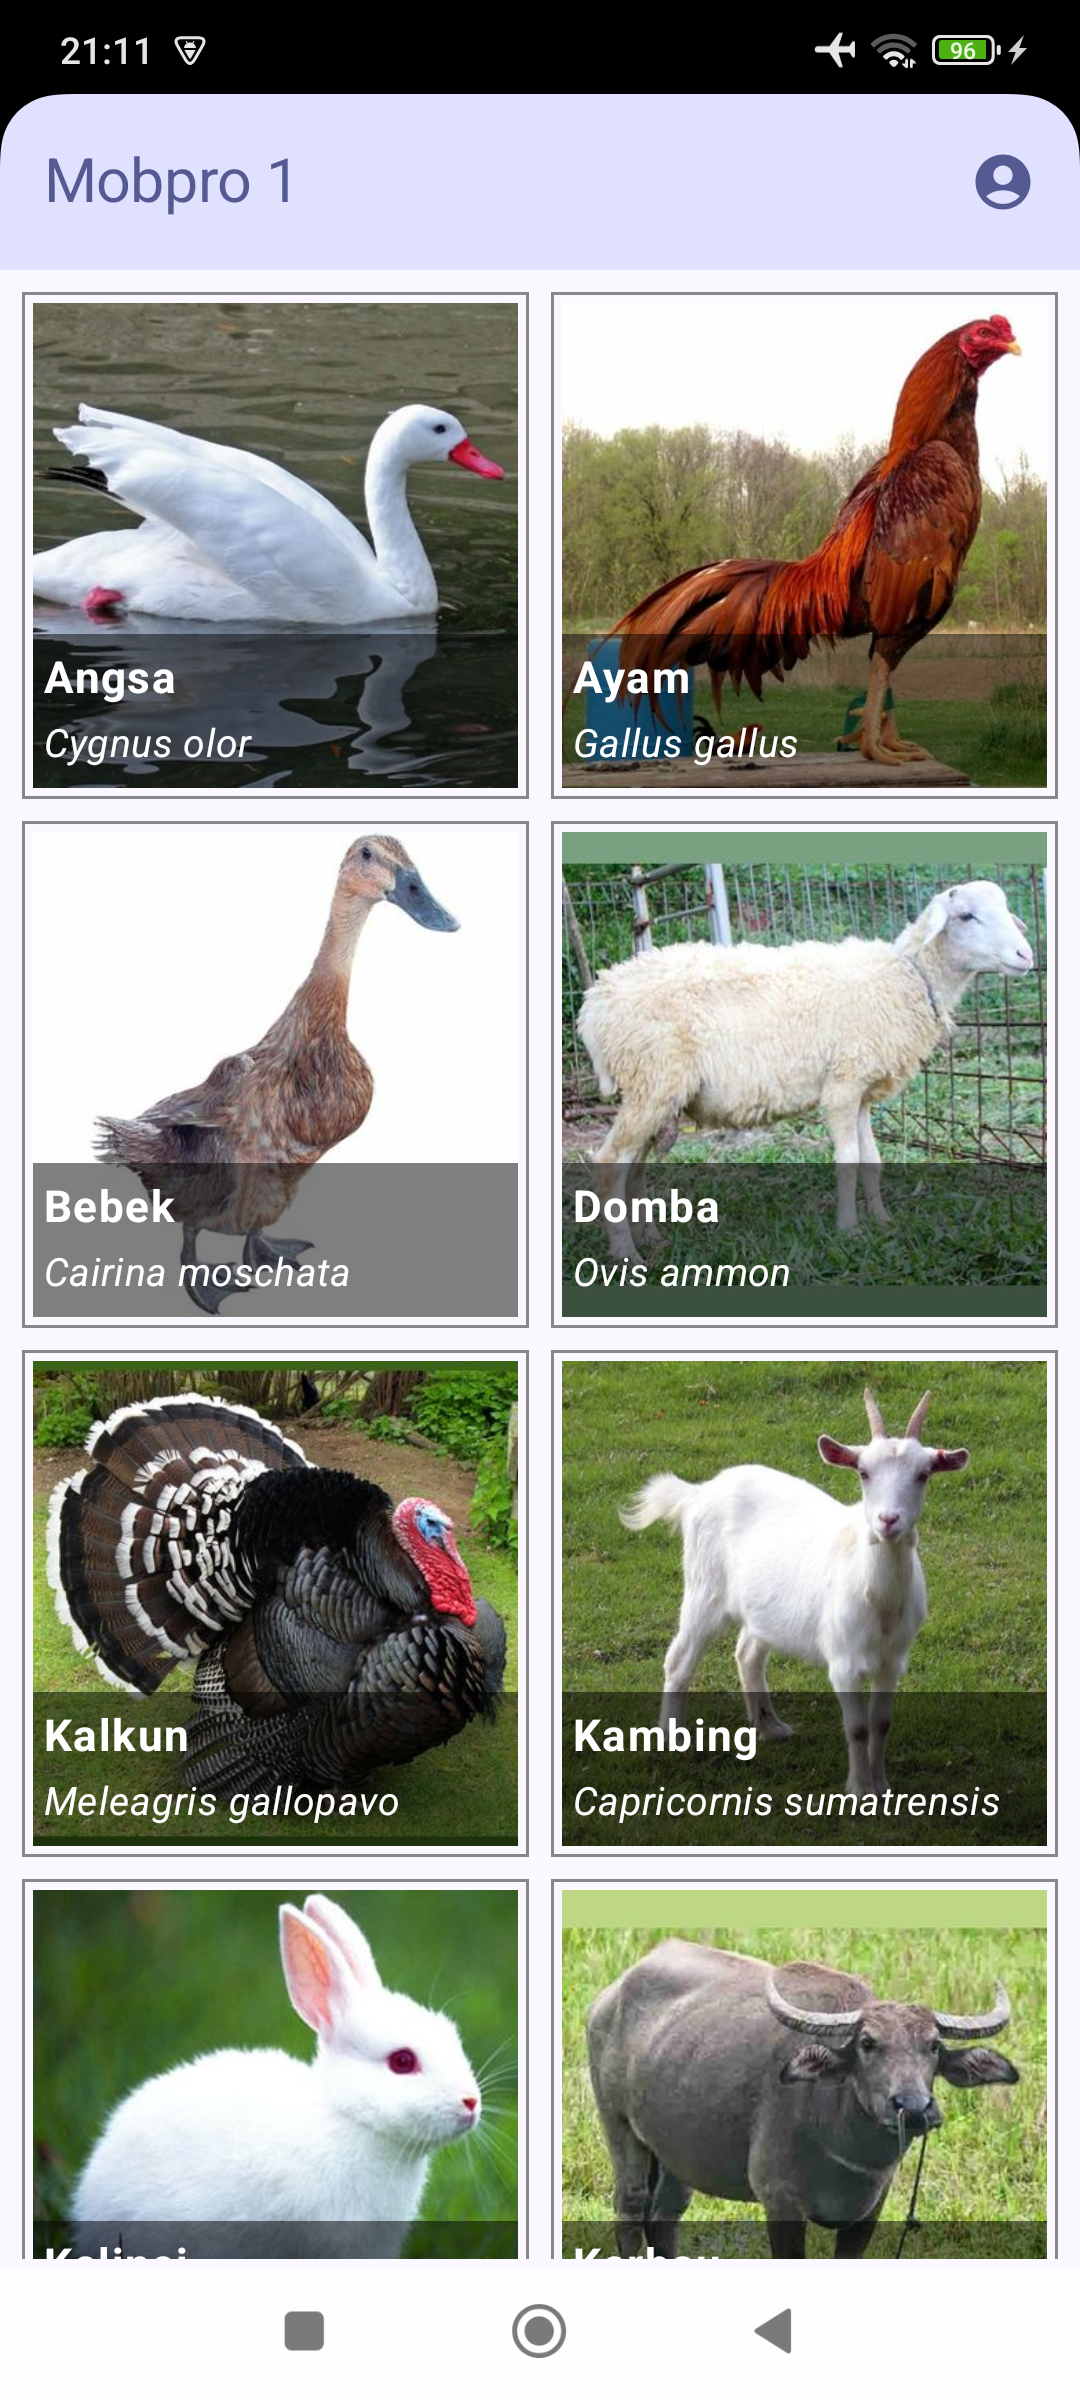
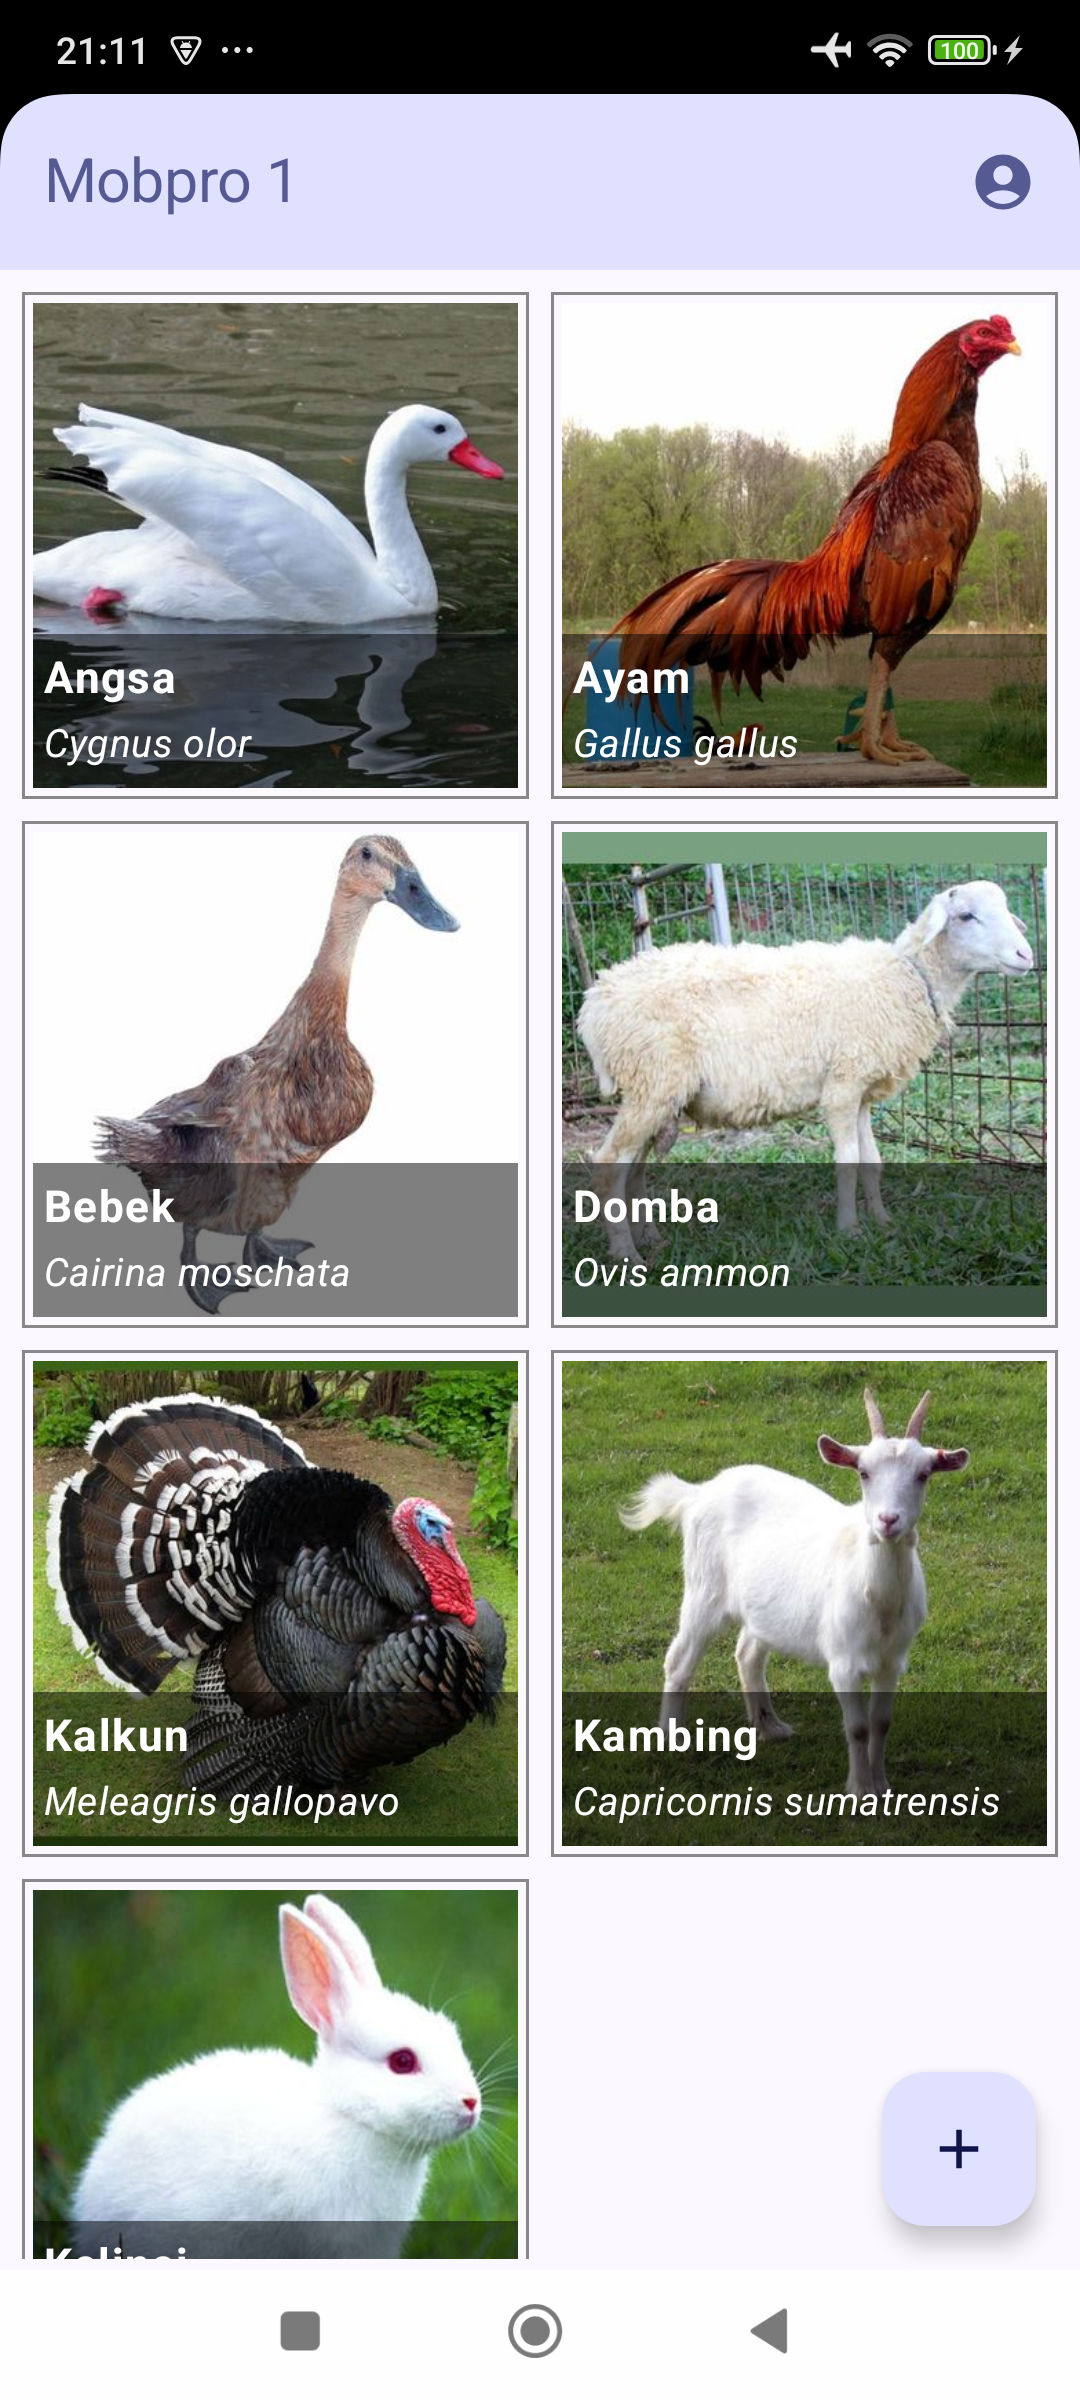
Update readme

diff --git a/README.md b/README.md
@@ -1,16 +1,16 @@
 # Galeri Hewan
 
-Aplikasi Android sederhana yang menampilkan gambar hewan dalam bentuk grid. Data berasal dari [REST API](https://gh.d3ifcool.org/). Pengguna bisa login menggunakan Google Sign-In.
+Aplikasi Android yang menampilkan gambar hewan dalam bentuk grid. Data berasal dari [REST API](https://gh.d3ifcool.org/). Pengguna bisa login menggunakan Google Sign-In dan menambahkan data hewan baru.
 
-| Tampilan Utama                               | Tampilan Login                                | Tampilan Profil                                |
-|----------------------------------------------|-----------------------------------------------|------------------------------------------------|
-| <img src="screenshots/main.png" width="200"> | <img src="screenshots/login.png" width="200"> | <img src="screenshots/profil.png" width="200"> |
+| Tampilan Utama                               | Form Tambah Data                               |
+|----------------------------------------------|------------------------------------------------|
+| <img src="screenshots/main.png" width="200"> | <img src="screenshots/tambah.png" width="200"> |
 
 Di modul ini kita belajar:
-- membuat fitur login dengan Google
-- menyimpan data akun pengguna
-- membuat tampilan profil
-- membuat fitur logout
+- mengambil gambar dari kamera perangkat
+- membuat dialog untuk form tambah data
+- mengirim data teks dan image ke server
+- menampilkan data sesuai yang login
 
 Punya pertanyaan atau masukan? Silahkan disampaikan melalui issue repository.
 
